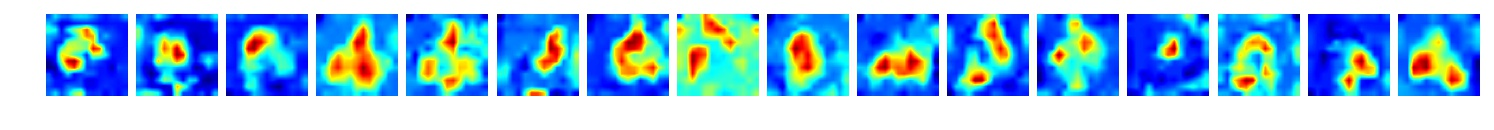
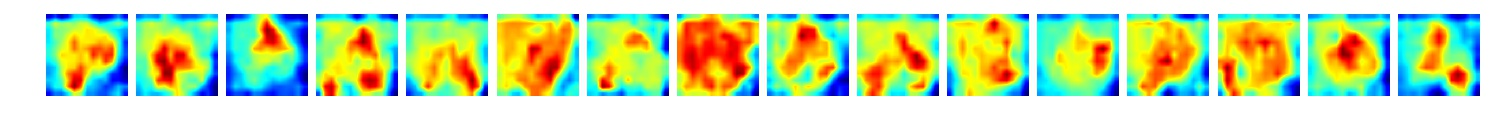
results

diff --git a/b_data_loading.py b/b_data_loading.py
@@ -3,7 +3,7 @@ import random
 import shutil
 
 DEBUG = False
-source = 'original_dataset/'
+source = 'original_segmented_dataset/'
 destination = 'data/'
 test_size = 30
 validation_size = 14
